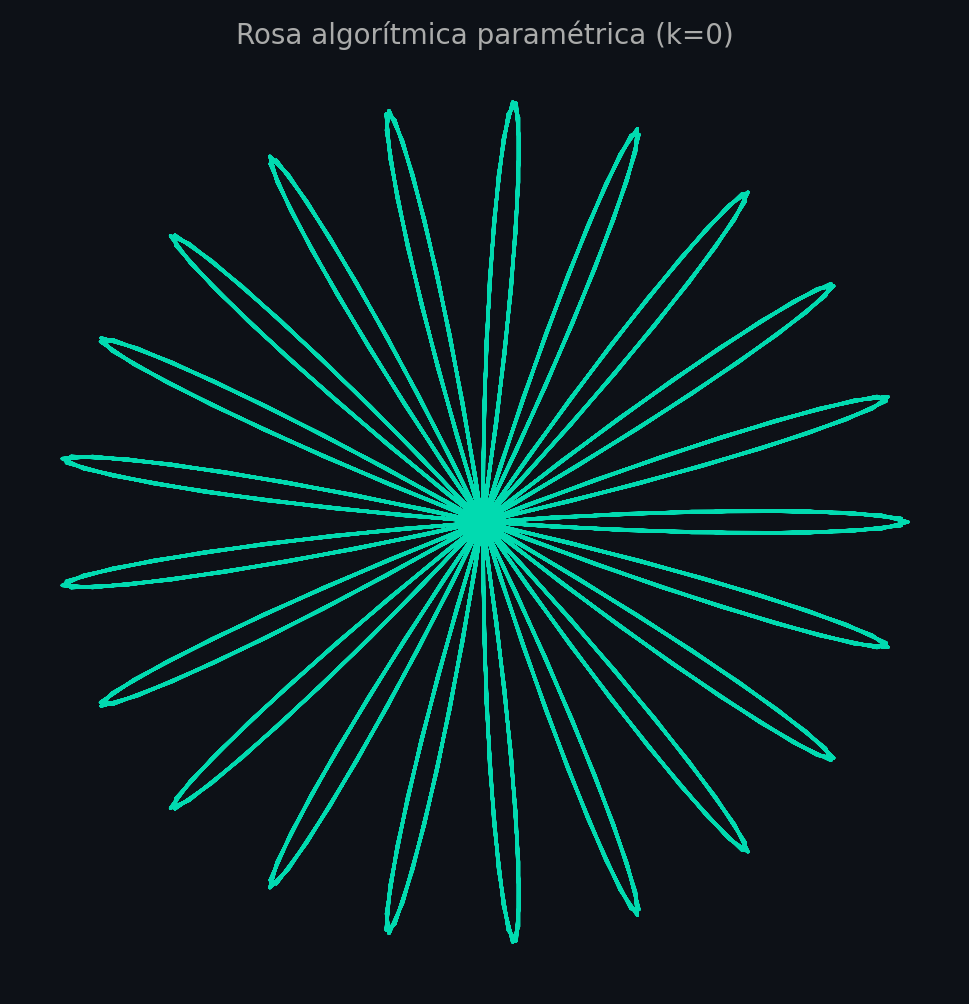
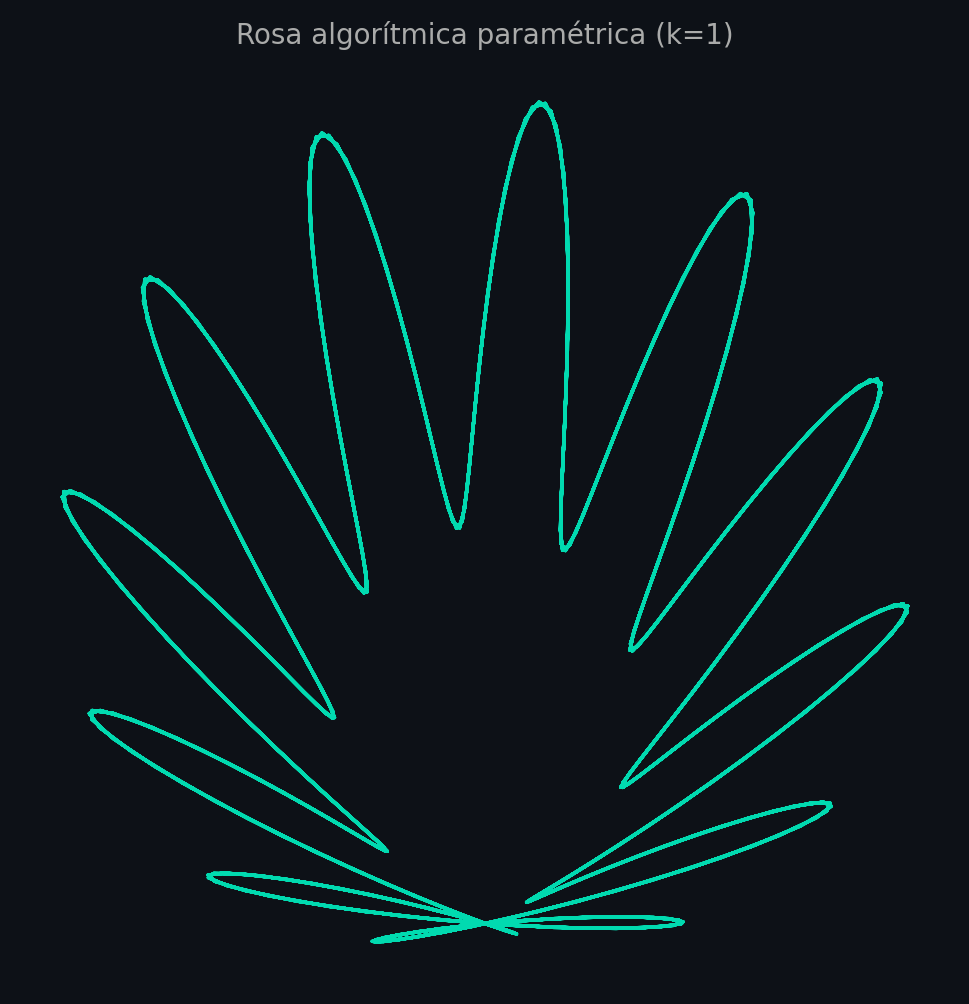
feat(arte): generar rosa paramétrica procedural y bitácora matemática

diff --git a/DIARIO_ALGORITMICO.md b/DIARIO_ALGORITMICO.md
@@ -2,5 +2,5 @@
 
 - **Autoría:** mronrom948-lang
 - **Artefacto generado:** `patron_generativo.png`
-- **Parámetros matemáticos:** Pétalos = 0, Armónicos = 21
+- **Parámetros matemáticos:** Pétalos = 1, Armónicos = 21
 - **Descripción:** Gráfico vectorial rasterizado basado en cálculo trigonométrico continuo.
